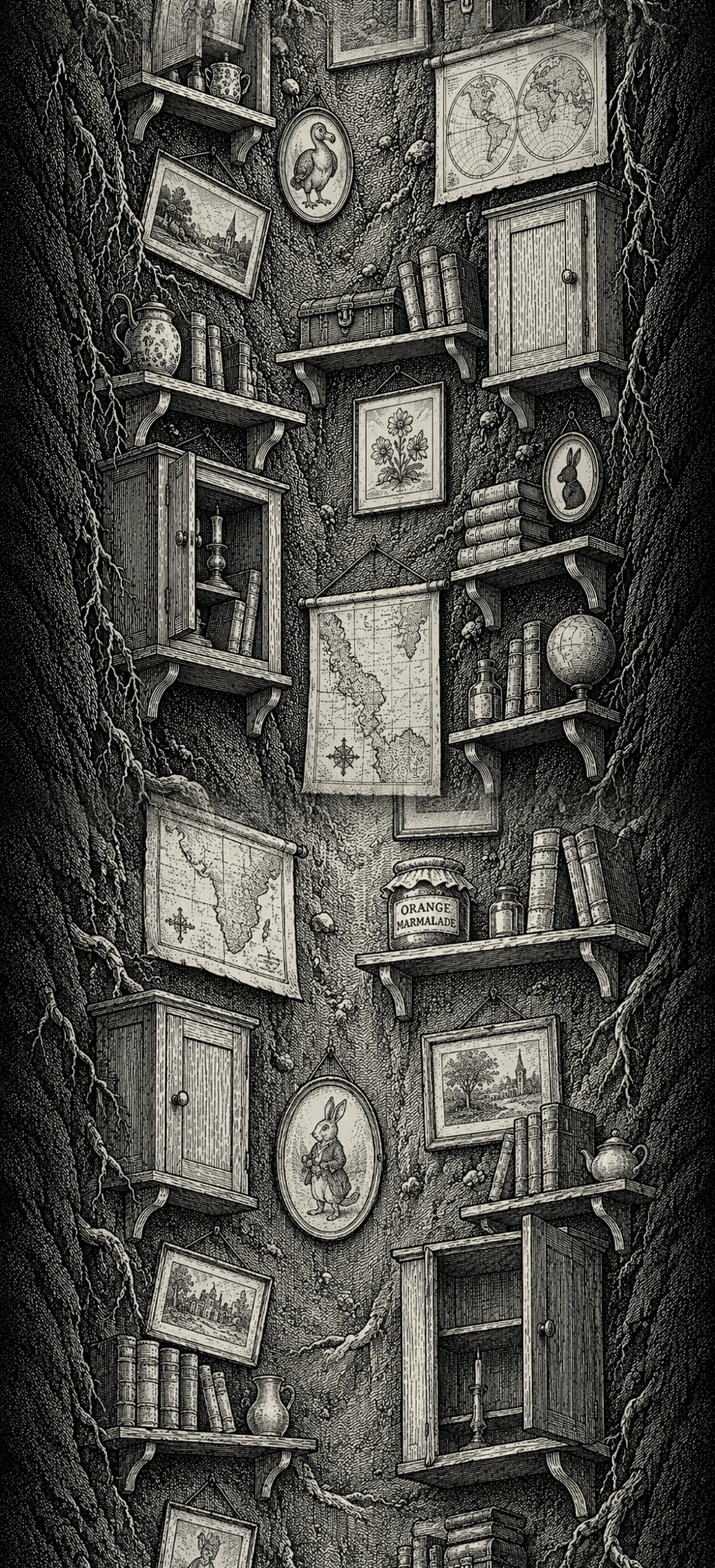
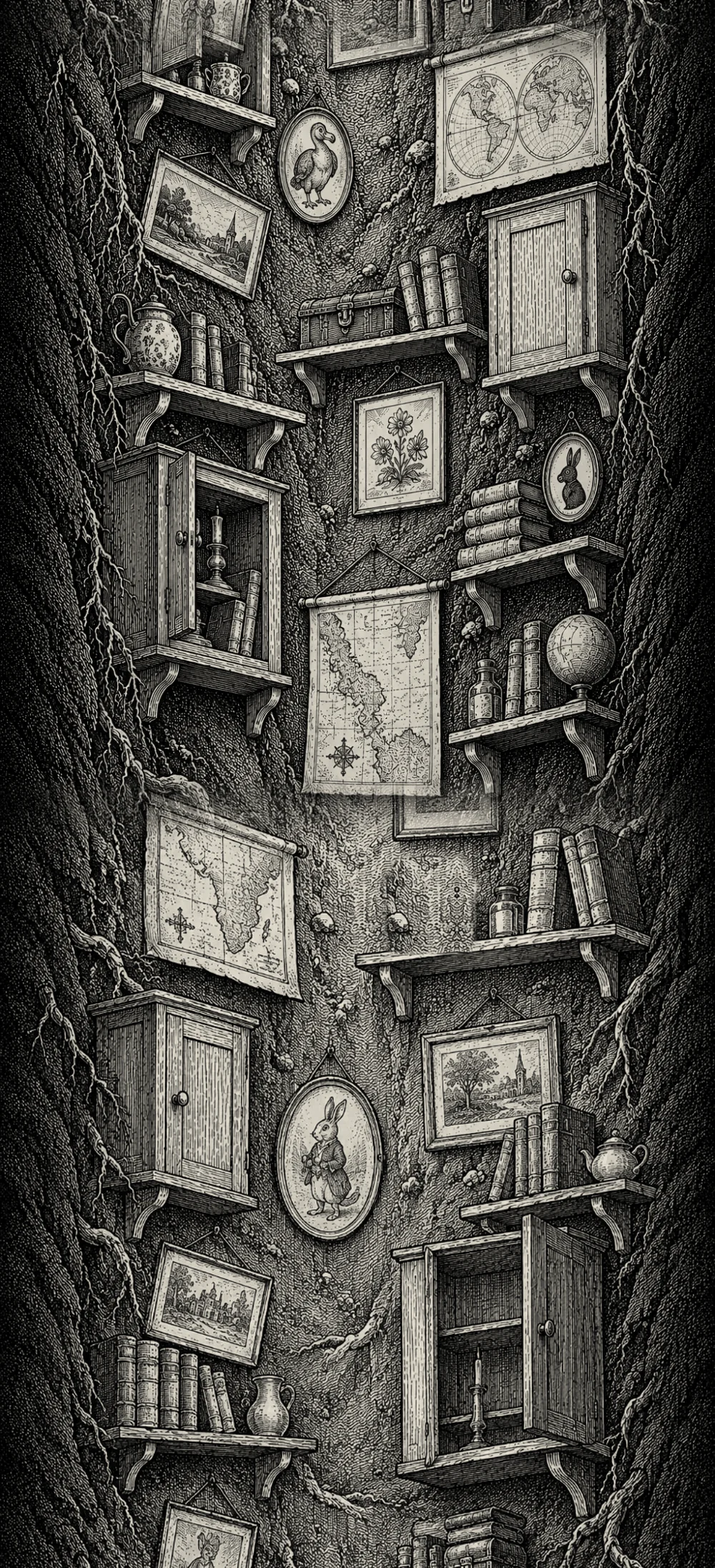
Make the marmalade jar one sprite, on the shelf and in Alice's hand
- tools/shaft_strip.py builds the shaft wall strip and lifts the ORANGE
  MARMALADE jar out of the wall art into its own sprite; the wall scroll is
  timed so its shelf reaches her hand on "She took down a jar"
- The jar stays empty and in ink (owner decision; COLOR.md updated)
- Alice falls closer to the wall so the held jar reads the same size
- tools/rig_parts.py cuts the puppet parts from the AI parts sheets

Claude-Session: https://claude.ai/code/session_017Cg1kEu4qF1uR9wtsRZYHu

Changed region(s): [[0.527, 0.5279, 0.682, 0.621]]

diff --git a/src/scenes/shaft.js b/src/scenes/shaft.js
@@ -3,7 +3,7 @@
 import * as THREE from 'three';
 import { paperFlat } from '../stage.js';
 import { texture } from '../ink.js';
-import { earth, marmaladeJar } from '../props.js';
+import { earth } from '../props.js';
 import { smooth, lerp, cameraTrack } from '../track.js';
 
 const FALL = 0.35; // metres per second the walls pass by ("she fell very slowly")
@@ -14,7 +14,7 @@ export const shaft = {
   title: 'Down the rabbit-hole',
   start: (cue) => cue.para('The rabbit-hole went straight on'),
 
-  build({ group, ai, cue }) {
+  build({ group, ai, cue, shaftMeta }) {
     const at = cue.at;
     const start = shaft.start(cue);
     const T = {
@@ -42,12 +42,21 @@ export const shaft = {
       group.add(side);
     }
 
-    const jar = paperFlat(texture(marmaladeJar(true)), 0.22, 0.26);
+    // The ORANGE MARMALADE jar was lifted out of the wall art (tools/shaft_strip.py) so
+    // the jar on the shelf and the jar in her hand are one sprite: same image, same size.
+    const px = WALL_W / shaftMeta.width; // metres per strip pixel
+    const J = shaftMeta.jar;
+    const jar = paperFlat(ai.jar.tex, J.w * px, J.h * px, { anchor: 'center' });
     group.add(jar);
+    const SHELF = { x: (J.cx / shaftMeta.width - 0.5) * WALL_W, z: -1.58 };
+    const HAND = { x: 0.32, y: 0.55, z: -0.95 };
+    const CUPBOARD = { x: -0.75, z: -1.58 };
 
-    // The wall moves up FALL m/s; things fixed to it move with it.
-    const wallY = (t, y0, t0) => y0 + FALL * (t - t0);
-    const HAND = { x: 0.32, y: 0.55, z: -0.35 };
+    // Scroll the wall so the jar's shelf reaches her hand at the moment she takes it.
+    const wallBottom = 1 - WALL_H / 2;
+    const vJar = 1 - J.cy / shaftMeta.height;
+    const offsetAtTake = vJar - ((HAND.y - wallBottom) / WALL_H) * (WALL_H / tileH);
+    const wallY = (t, y0, t0) => y0 + FALL * (t - t0); // things on the wall rise with it
 
     function alice(t) {
       // Drops in from above when the tunnel "dipped suddenly down".
@@ -55,7 +64,7 @@ export const shaft = {
       const sway = Math.sin(t * 0.7) * 0.12;
       return {
         visible: t > T.dipped - 0.2, pose: 'stand', dir: 1,
-        x: Math.sin(t * 0.31) * 0.15, z: -0.4,
+        x: Math.sin(t * 0.31) * 0.15, z: -1.0, // close to the wall, so the jar in her hand looks the size it did on the shelf
         y: lerp(5, 0.15, enter) + Math.sin(t * 0.9) * 0.05,
         tilt: sway,
       };
@@ -63,13 +72,24 @@ export const shaft = {
 
     function update(t) {
       // Walls scroll upward as she falls.
-      strip.offset.y = -(FALL * t) / tileH;
+      strip.offset.y = offsetAtTake - (FALL * (t - T.jar)) / tileH;
       sideTex.offset.y = -(FALL * t) / (WALL_H / 3);
       // The jar: on a shelf rising toward her, in her hand, then put back on a shelf.
-      jar.visible = t > T.jar - 6 && t < T.putBack + 12;
-      if (t < T.jar) jar.position.set(-0.9, wallY(t, HAND.y, T.jar), -1.55);
-      else if (t < T.putBack) jar.position.set(HAND.x, HAND.y + Math.sin(t * 0.9) * 0.05, HAND.z);
-      else jar.position.set(0.9, wallY(t, HAND.y, T.putBack), -1.55);
+      // On its shelf, rising toward her; into her hand; then into a cupboard as she passes.
+      const held = { x: HAND.x, y: HAND.y + Math.sin(t * 0.9) * 0.05, z: HAND.z };
+      let p;
+      if (t < T.jar) p = { ...SHELF, y: wallY(t, HAND.y, T.jar) };
+      else if (t < T.putBack) {
+        const k = smooth((t - T.jar) / 0.8);
+        const from = { ...SHELF, y: wallY(t, HAND.y, T.jar) };
+        p = { x: lerp(from.x, held.x, k), y: lerp(from.y, held.y, k), z: lerp(from.z, held.z, k) };
+      } else {
+        const k = smooth((t - T.putBack) / 0.8);
+        const to = { ...CUPBOARD, y: wallY(t, HAND.y, T.putBack) };
+        p = { x: lerp(held.x, to.x, k), y: lerp(held.y, to.y, k), z: lerp(held.z, to.z, k) };
+      }
+      jar.position.set(p.x, p.y, p.z);
+      jar.visible = p.y < 6;
     }
 
     const camera = cameraTrack([

diff --git a/src/props.js b/src/props.js
@@ -5,7 +5,6 @@ import { canvas, hatch, blob, flicks, outline, fillPaper, grain, shadeEdge, PAPE
 
 export const SPOT = {
   gold: '#c9a33b',    // "a tiny golden key"
-  orange: '#e0862a',  // "ORANGE MARMALADE"
   redHot: '#d8401f',  // "a red-hot poker"
 };
 
@@ -177,19 +176,6 @@ export function eatMeCake() {
   fillPaper(g, side); hatch(g, side, { angle: Math.PI / 2, gap: 5, seed: 181 }); outline(g, side, 3);
   fillPaper(g, top); outline(g, top, 3);
   g.fillStyle = INK; g.textAlign = 'center'; g.font = FONT(44); g.fillText('EAT ME', 160, 96);
-  return c;
-}
-
-// "labelled 'ORANGE MARMALADE'": the marmalade is orange, the jar and label stay ink.
-export function marmaladeJar(empty = true) {
-  const { c, g } = canvas(220, 260);
-  const jar = new Path2D(); jar.roundRect(20, 40, 180, 210, 22);
-  fillPaper(g, jar);
-  if (!empty) { const m = new Path2D(); m.roundRect(28, 90, 164, 152, 16); g.fillStyle = SPOT.orange; g.fill(m); }
-  outline(g, jar, 4);
-  g.fillStyle = INK; g.fillRect(14, 22, 192, 26);
-  g.fillStyle = PAPER; g.fillRect(40, 120, 140, 70); g.strokeStyle = INK; g.lineWidth = 2; g.strokeRect(40, 120, 140, 70);
-  g.fillStyle = INK; g.textAlign = 'center'; g.font = FONT(24); g.fillText('ORANGE', 110, 150); g.fillText('MARMALADE', 110, 178);
   return c;
 }
 

diff --git a/src/main.js b/src/main.js
@@ -34,9 +34,10 @@ async function main() {
   const camera = new THREE.PerspectiveCamera(45, 1, 0.02, 80);
 
   // Interim AI master drawings (PROVENANCE.md).
-  const AI_ART = ['sky', 'treeline', 'tree', 'hedge', 'grass', 'alice_stand', 'alice_sit', 'sister_read', 'shaft_strip'];
-  const [words, rabbitArt, ...aiArt] = await Promise.all([
+  const AI_ART = ['sky', 'treeline', 'tree', 'hedge', 'grass', 'alice_stand', 'alice_sit', 'sister_read', 'shaft_strip', 'jar'];
+  const [words, shaftMeta, rabbitArt, ...aiArt] = await Promise.all([
     fetch('data/ch01_words.json').then((r) => r.json()),
+    fetch('art/ai/shaft_strip.json').then((r) => r.json()),
     loadTexture('art/rabbit_w01-1.png'),
     ...AI_ART.map((n) => loadTexture(`art/ai/${n}.webp`)),
   ]);
@@ -50,7 +51,7 @@ async function main() {
     const group = new THREE.Group();
     group.visible = false;
     scene.add(group);
-    return { def, group, start: def.start(cue), ...def.build({ group, ai, cue }) };
+    return { def, group, start: def.start(cue), ...def.build({ group, ai, cue, shaftMeta }) };
   });
   const sceneAt = (t) => scenes.reduce((cur, s) => (t >= s.start ? s : cur), scenes[0]);
 

diff --git a/tools/shaft_strip.py b/tools/shaft_strip.py
@@ -1,0 +1,71 @@
+"""Build the rabbit-hole wall: a seamlessly repeating vertical strip made from the two
+AI shaft walls, with the ORANGE MARMALADE jar lifted out into its own sprite.
+
+The jar Alice takes must be the same image and size as the jar on the shelf, so the
+jar is cut out of the wall art, the hole is filled with wall texture, and the game
+puts the sprite back on its shelf (public/art/ai/shaft_strip.json gives where).
+
+Usage: python3 tools/shaft_strip.py
+Requires Pillow, NumPy and SciPy.
+"""
+import json
+
+import numpy as np
+from PIL import Image, ImageDraw, ImageFilter
+
+PAPER = np.array([0xEF, 0xE9, 0xDA], np.float32)
+W = 1000          # strip width in pixels
+A_TOP = 330       # rows above this in wall A are daylight, not wall
+B_TOP = 300       # same for wall B (after resizing to 1000 wide)
+F = 90            # cross-fade rows where one tile meets the next
+
+# The jar on wall B (resized to 1000x1500), traced by hand.
+JAR = [(560, 418), (645, 418), (652, 435), (668, 460), (661, 470), (660, 540), (652, 549),
+       (552, 549), (543, 540), (542, 470), (535, 460), (548, 435)]
+
+
+def main():
+    a = Image.open("source/ai/shaft_wall_a.webp").convert("L")
+    b = Image.open("source/ai/shaft_wall_b.webp").convert("L").resize((W, 1500), Image.LANCZOS)
+    B = np.asarray(b, np.float32).copy()
+
+    # Lift the jar out: keep it as a sprite with a feathered mask...
+    mask = Image.new("L", (W, 1500), 0)
+    ImageDraw.Draw(mask).polygon(JAR, fill=255)
+    xs, ys = zip(*JAR)
+    box = (min(xs) - 3, min(ys) - 3, max(xs) + 4, max(ys) + 4)
+    alpha = mask.filter(ImageFilter.GaussianBlur(1.2)).crop(box)
+    jar = (np.asarray(b.crop(box), np.float32)[..., None] / 255.0) * PAPER
+    Image.merge("RGBA", [Image.fromarray(jar[..., i].astype(np.uint8)) for i in range(3)] + [alpha]).save(
+        "public/art/ai/jar.webp", quality=92, method=6)
+
+    # ...and fill the hole with plain wall from between the map and the jar (x 428-535),
+    # repeated mirror-wise to the jar's width, feathered in.
+    x0, y0, x1, y1 = box
+    w = x1 - x0
+    plain = B[y0:y1, 428:535]
+    src = np.concatenate([plain, plain[:, ::-1], plain], axis=1)[:, :w]
+    m = np.asarray(mask.filter(ImageFilter.MaxFilter(5)).filter(ImageFilter.GaussianBlur(3)), np.float32)[y0:y1, x0:x1] / 255
+    B[y0:y1, x0:x1] = B[y0:y1, x0:x1] * (1 - m) + src * m
+
+    A = np.asarray(a.crop((0, A_TOP, W, 1500)), np.float32)
+    B = B[B_TOP:]
+    ramp = np.linspace(0, 1, F)[:, None]
+    strip = np.concatenate([A[:-F], A[-F:] * (1 - ramp) + B[:F] * ramp, B[F:]])
+    strip[:F] = strip[-F:] * (1 - ramp) + strip[:F] * ramp  # wrap: bottom flows into top
+    strip = strip[:-F]
+    rgb = (strip[..., None] / 255.0) * PAPER
+    Image.fromarray(rgb.astype(np.uint8)).save("public/art/ai/shaft_strip.webp", quality=85, method=6)
+
+    # Where the jar sat, in strip pixels (B row r lands at strip row len(A) - F + r - B_TOP).
+    b_start = len(A) - F - B_TOP
+    meta = {
+        "width": W, "height": strip.shape[0],
+        "jar": {"cx": (x0 + x1) / 2, "cy": b_start + (y0 + y1) / 2, "w": x1 - x0, "h": y1 - y0},
+    }
+    json.dump(meta, open("public/art/ai/shaft_strip.json", "w"), indent=1)
+    print(meta)
+
+
+if __name__ == "__main__":
+    main()

diff --git a/tools/rig_parts.py b/tools/rig_parts.py
@@ -1,0 +1,57 @@
+"""Cut Alice's puppet parts out of the AI parts sheets.
+
+Each part is a crop of a sheet, with optional rectangles painted white first
+(where a neighbouring drawing overlaps), then cut out and paper-tinted like
+tools/whitecut.py. Output: public/art/ai/rig/<part>.webp
+
+Usage: python3 tools/rig_parts.py
+Requires Pillow, NumPy and SciPy.
+"""
+import os
+import subprocess
+import sys
+import tempfile
+
+from PIL import Image, ImageDraw
+
+SHEET_B = "source/ai/alice_parts_b.webp"   # heads, arms, hands, skirt-and-legs
+TORSO = "source/ai/alice_torso.webp"
+OUT = "public/art/ai/rig"
+
+# name: (sheet, crop box x0,y0,x1,y1, [white-out boxes in sheet pixels])
+PARTS = {
+    "head_34": (SHEET_B, (403, 33, 661, 312), []),
+    "head_side": (SHEET_B, (742, 31, 970, 300), []),
+    "torso_34": (TORSO, (826, 257, 1397, 866), []),
+    "torso_front": (TORSO, (50, 265, 785, 849), []),
+    "arm_down": (SHEET_B, (35, 310, 165, 650), []),
+    "arm_bent": (SHEET_B, (216, 317, 444, 529), []),
+    "arm_reach": (SHEET_B, (486, 313, 805, 550), []),
+    "arm_up": (SHEET_B, (744, 247, 1086, 488), [(742, 247, 975, 302)]),
+    "legs_stand": (SHEET_B, (360, 630, 662, 995), []),
+    "legs_front": (SHEET_B, (35, 640, 330, 995), [(35, 640, 160, 662)]),
+    "legs_run_a": (SHEET_B, (662, 628, 1035, 993), []),
+    "legs_run_b": (SHEET_B, (1050, 635, 1513, 980), []),
+}
+
+
+def main():
+    os.makedirs(OUT, exist_ok=True)
+    py = sys.executable
+    with tempfile.TemporaryDirectory() as tmp:
+        for name, (sheet, box, erase) in PARTS.items():
+            im = Image.open(sheet).convert("RGB")
+            d = ImageDraw.Draw(im)
+            for e in erase:
+                d.rectangle(e, fill=(255, 255, 255))
+            src = os.path.join(tmp, f"{name}.png")
+            im.crop(box).save(src)
+            png = os.path.join(tmp, f"{name}_cut.png")
+            subprocess.run([py, "-I", "tools/whitecut.py", src, png, "--seal", "1"], check=True, stdout=subprocess.DEVNULL)
+            Image.open(png).save(os.path.join(OUT, f"{name}.webp"), quality=90, method=6)
+            w, h = Image.open(png).size
+            print(f"{name}: {w}x{h}")
+
+
+if __name__ == "__main__":
+    main()

diff --git a/PROVENANCE.md b/PROVENANCE.md
@@ -37,5 +37,6 @@ Every shipped asset is listed here with its source. AI-generated or AI-modified 
 | ai_alice_sit | `public/art/ai/alice_sit.webp` | AI | Generated from Tenniel references (docs/ART_PROMPTS.md, follow-up prompt: Alice sitting); original in `source/ai/alice_sitting.webp` | OpenAI ChatGPT (GPT-6 chat); OpenAI image generation, DALL·E-labeled metadata, exact image model not disclosed; generated 2026-10-09 PT | Whole image generated. Cut out and paper-tinted with `tools/whitecut.py`. | 2026-10-10 | Owner (generated), Claude Code (processed) |
 | ai_sister_read | `public/art/ai/sister_read.webp` | AI | Generated from Tenniel references (docs/ART_PROMPTS.md, follow-up prompt: sister reading); original in `source/ai/sister_reading.webp` | OpenAI ChatGPT (GPT-6 chat); OpenAI image generation, DALL·E-labeled metadata, exact image model not disclosed; generated 2026-10-09 PT | Whole image generated. Cut out and paper-tinted with `tools/whitecut.py`. | 2026-10-10 | Owner (generated), Claude Code (processed) |
 | ai_alice_torso (not yet used) | — | AI | Generated from Tenniel references (docs/ART_PROMPTS.md, follow-up prompt: torso); original in `source/ai/alice_torso.webp` | OpenAI ChatGPT (GPT-6 chat); OpenAI image generation, DALL·E-labeled metadata, exact image model not disclosed; generated 2026-10-09 PT | Whole image generated. Cut out and paper-tinted with `tools/whitecut.py`. | 2026-10-10 | Owner (generated), Claude Code (processed) |
-| ai_shaft_strip | `public/art/ai/shaft_strip.webp` | AI | Composite of `source/ai/shaft_wall_a.webp` and `shaft_wall_b.webp` | OpenAI ChatGPT (GPT-6 chat); OpenAI image generation, DALL·E-labeled metadata, exact image model not disclosed; generated 2026-10-09 PT | Whole images generated. Daylit tops cropped; the two walls stacked and cross-faded into one seamlessly repeating strip; paper-tinted. | 2026-10-10 | Claude Code |
-| props_ch01 | `src/props.js` | original | — | none | Nothing. Placeholder art drawn in code for the fall, the passage and the hall (walls, lamps, table, golden key, curtain, little door, garden, bottle, cake, jar, poker vignette). To be replaced. |
+| ai_shaft_strip | `public/art/ai/shaft_strip.webp` | AI | Composite of `source/ai/shaft_wall_a.webp` and `shaft_wall_b.webp` | OpenAI ChatGPT (GPT-6 chat); OpenAI image generation, DALL·E-labeled metadata, exact image model not disclosed; generated 2026-10-09 PT | Whole images generated. Daylit tops cropped; the ORANGE MARMALADE jar lifted out into `public/art/ai/jar.webp` and its spot filled with neighbouring wall texture; the two walls stacked and cross-faded into one seamlessly repeating strip; paper-tinted (`tools/shaft_strip.py`). | 2026-10-10 | Claude Code |
+| props_ch01 | `src/props.js` | original | — | none | Nothing. Placeholder art drawn in code for the fall, the passage and the hall (walls, lamps, table, golden key, curtain, little door, garden, bottle, cake, poker vignette). To be replaced. |
+| ai_alice_rig_parts | `public/art/ai/rig/*.webp` | AI | Cut from `source/ai/alice_parts_b.webp` and `alice_torso.webp` (`tools/rig_parts.py`) | OpenAI ChatGPT (GPT-6 chat); OpenAI image generation, DALL·E-labeled metadata, exact image model not disclosed; generated 2026-10-09/10 PT | Whole images generated. Cut into puppet parts and paper-tinted. | 2026-10-10 | Claude Code |

diff --git a/docs/CHAPTER_01_ROUGHCUT.md b/docs/CHAPTER_01_ROUGHCUT.md
@@ -12,7 +12,7 @@ Status: The whole chapter plays start to finish (about 12 minutes). Riverbank ar
 | Scene | From | To | What happens | Art |
 |---|---|---|---|---|
 | Riverbank | "Alice was beginning…" | "…how in the world she was to get out again." | Sister reading, the Rabbit and his watch, the chase, down the hole | AI masters, Tenniel Rabbit |
-| The fall | "The rabbit-hole went straight on like a tunnel…" | "thump! thump!" | Alice drifts down; shelves, maps and cupboards pass; she takes the ORANGE MARMALADE jar (empty, as in the text) and puts it back | AI shaft walls; placeholder side walls and jar |
+| The fall | "The rabbit-hole went straight on like a tunnel…" | "thump! thump!" | Alice drifts down; shelves, maps and cupboards pass; she takes the ORANGE MARMALADE jar (empty, all ink, as in the text) and puts it back. The jar is lifted out of the wall art (`tools/shaft_strip.py`), so the shelf jar and the jar in her hand are the same image and size | AI shaft walls; placeholder side walls |
 | The passage | landing on the leaves | the corner | She lands, jumps up, chases the Rabbit, who turns the corner and is gone | Placeholder |
 | The hall | "a long, low hall…" | "…finished off the cake." | Lamps, locked doors, glass table and golden key, curtain, little door and garden, DRINK ME, the red-hot poker thought, shrinking to ten inches, the key out of reach, crying, the EAT ME cake | Placeholder; Alice is the AI turnaround |
 
@@ -23,5 +23,4 @@ Spot colours so far (docs/COLOR.md): the Rabbit's pink eyes, the golden key, the
 - **The Rabbit** is one pose (watch in hand), also used running away down the passage. Tenniel's back view (plate W-02-2) would suit the passage.
 - **Placeholder sets**: the passage, the hall, the little door and the garden view need master drawings. The marmalade jar, bottle, cake and poker vignette are drawn in code.
 - **Thought vignettes**: only the poker is staged. Dinah and the bats ("Do cats eat bats?") and the candle are not yet.
-- **The marmalade**: the text says the jar was empty, so nothing is orange yet. This needs an owner decision (COLOR.md rule 5).
 - **Explore-mode hotspots** exist only for the main props.

diff --git a/docs/COLOR.md b/docs/COLOR.md
@@ -6,7 +6,7 @@ The world is black-and-white ink, like Tenniel's engravings. **A thing has color
 2. **Only that thing, not its kind.** Chapter V's "sea of green leaves" colors those treetops only, not every leaf in the book.
 3. **Face changes are shown.** "Turned crimson", "turning purple" and "turned pale" are brief flushes on that character's face, then back to ink.
 4. **Real objects in Alice's thoughts count.** The "red-hot poker" is shown red in a thought vignette.
-5. **Labels that name contents count.** "ORANGE MARMALADE" means the marmalade is orange; the jar and label stay ink.
+5. **Labels that name contents count**, but only if the contents are there. The ORANGE MARMALADE jar is empty ("to her great disappointment it was empty"), so the jar and its label stay ink (owner decision, 2026-10-10).
 6. **Colors in poems and songs** at least color that word in the text strip (e.g. *green* in "Beautiful Soup, so rich and green"). They can be staged where it suits the scene.
 7. **Not colors:** "dark", "bright", "brightened", "goldfish" (the word only; no color is stated), "blacking" (a polish, not a stated color).
 8. **White is still white.** White things (the White Rabbit, white kid gloves, white roses) are paper-white. Being named white means they stay unshaded.
@@ -16,7 +16,7 @@ The world is black-and-white ink, like Tenniel's engravings. **A thing has color
 |---|---|---|---|
 | White Rabbit's eyes | pink | "a White Rabbit with pink eyes ran close by her" | Every scene with the Rabbit |
 | The little key | gold | "a tiny golden key" | The hall, and later chapters |
-| Marmalade (in the jar) | orange | "labelled 'ORANGE MARMALADE'" | The fall |
+| Marmalade jar | none: the jar is empty | "labelled 'ORANGE MARMALADE', but to her great disappointment it was empty" | The fall |
 | Red-hot poker | red (glowing) | "a red-hot poker will burn you if you hold it too long" | Thought vignette, "Drink me" scene |
 
 ## Rest of the book (for planning)
